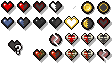
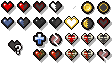
bugfix for holy mantle ui

Changed region(s): [[0.2946, 0.5, 0.4286, 0.75]]

diff --git a/src/types/Globals.ts b/src/types/Globals.ts
@@ -3,7 +3,7 @@ import { RaceVars } from "../features/race/types/RaceVars";
 import { ChatMessage } from "./ChatMessage";
 
 export class Globals {
-  debug = false;
+  debug = true;
 
   // Cached API functions
   g = Game();
